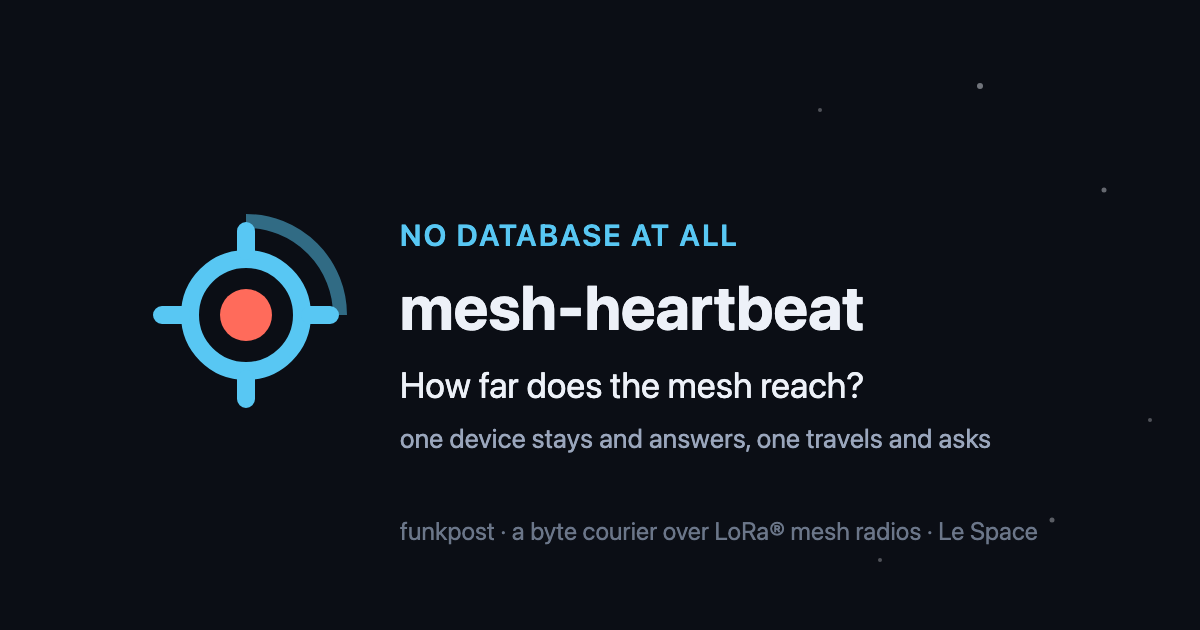
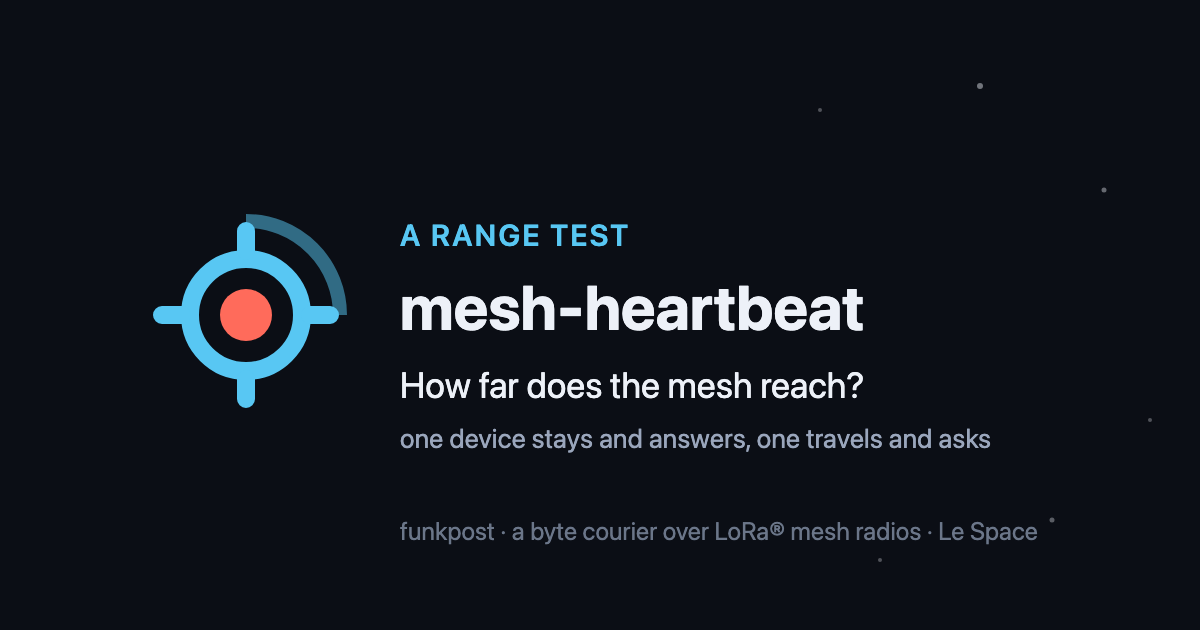
fix: say what these two are, not what they are missing
"NO DATABASE AT ALL" was the eyebrow on mesh-heartbeat's and mesh-trail's
social cards, and "no database" the pill on their landing cards. It is the same
mistake as the intro that said "two nodes and no list": defining an app by what
it lacks only parses for somebody who knows the siblings, and a social card is
the first thing a stranger sees.

  mesh-heartbeat  →  A RANGE TEST
  mesh-trail      →  A WALK WITH RADIOS

The landing pills name the substrate — OrbitDB, Yjs — and these two have none.
So they name **what crosses the air** instead: beats, positions. That is the
repository's own rule, from the note on why the event plane stopped being
called the Yjs plane: naming a thing after what crosses it survives a change of
substrate.

The README keeps "no database at all" in its demo table, where it sits directly
under the three-plane comparison and the absence is the informative part.

Changed region(s): [[0.3392, 0.3317, 0.6167, 0.3921]]

diff --git a/examples/landing/index.html b/examples/landing/index.html
@@ -306,7 +306,7 @@
         <a class="demo" href="./mesh-heartbeat/">
           <span class="head">
             <h2>mesh-heartbeat</h2>
-            <span class="plane">no database</span>
+            <span class="plane">beats</span>
             <span class="pill"><span data-lang="en">a measurement</span><span data-lang="de">eine Messung</span></span>
           </span>
           <p data-lang="en">
@@ -344,7 +344,7 @@
         <a class="demo" href="./mesh-trail/">
           <span class="head">
             <h2>mesh-trail</h2>
-            <span class="plane">no database</span>
+            <span class="plane">positions</span>
             <span class="pill"><span data-lang="en">a walk</span><span data-lang="de">ein Spaziergang</span></span>
           </span>
           <p data-lang="en">
